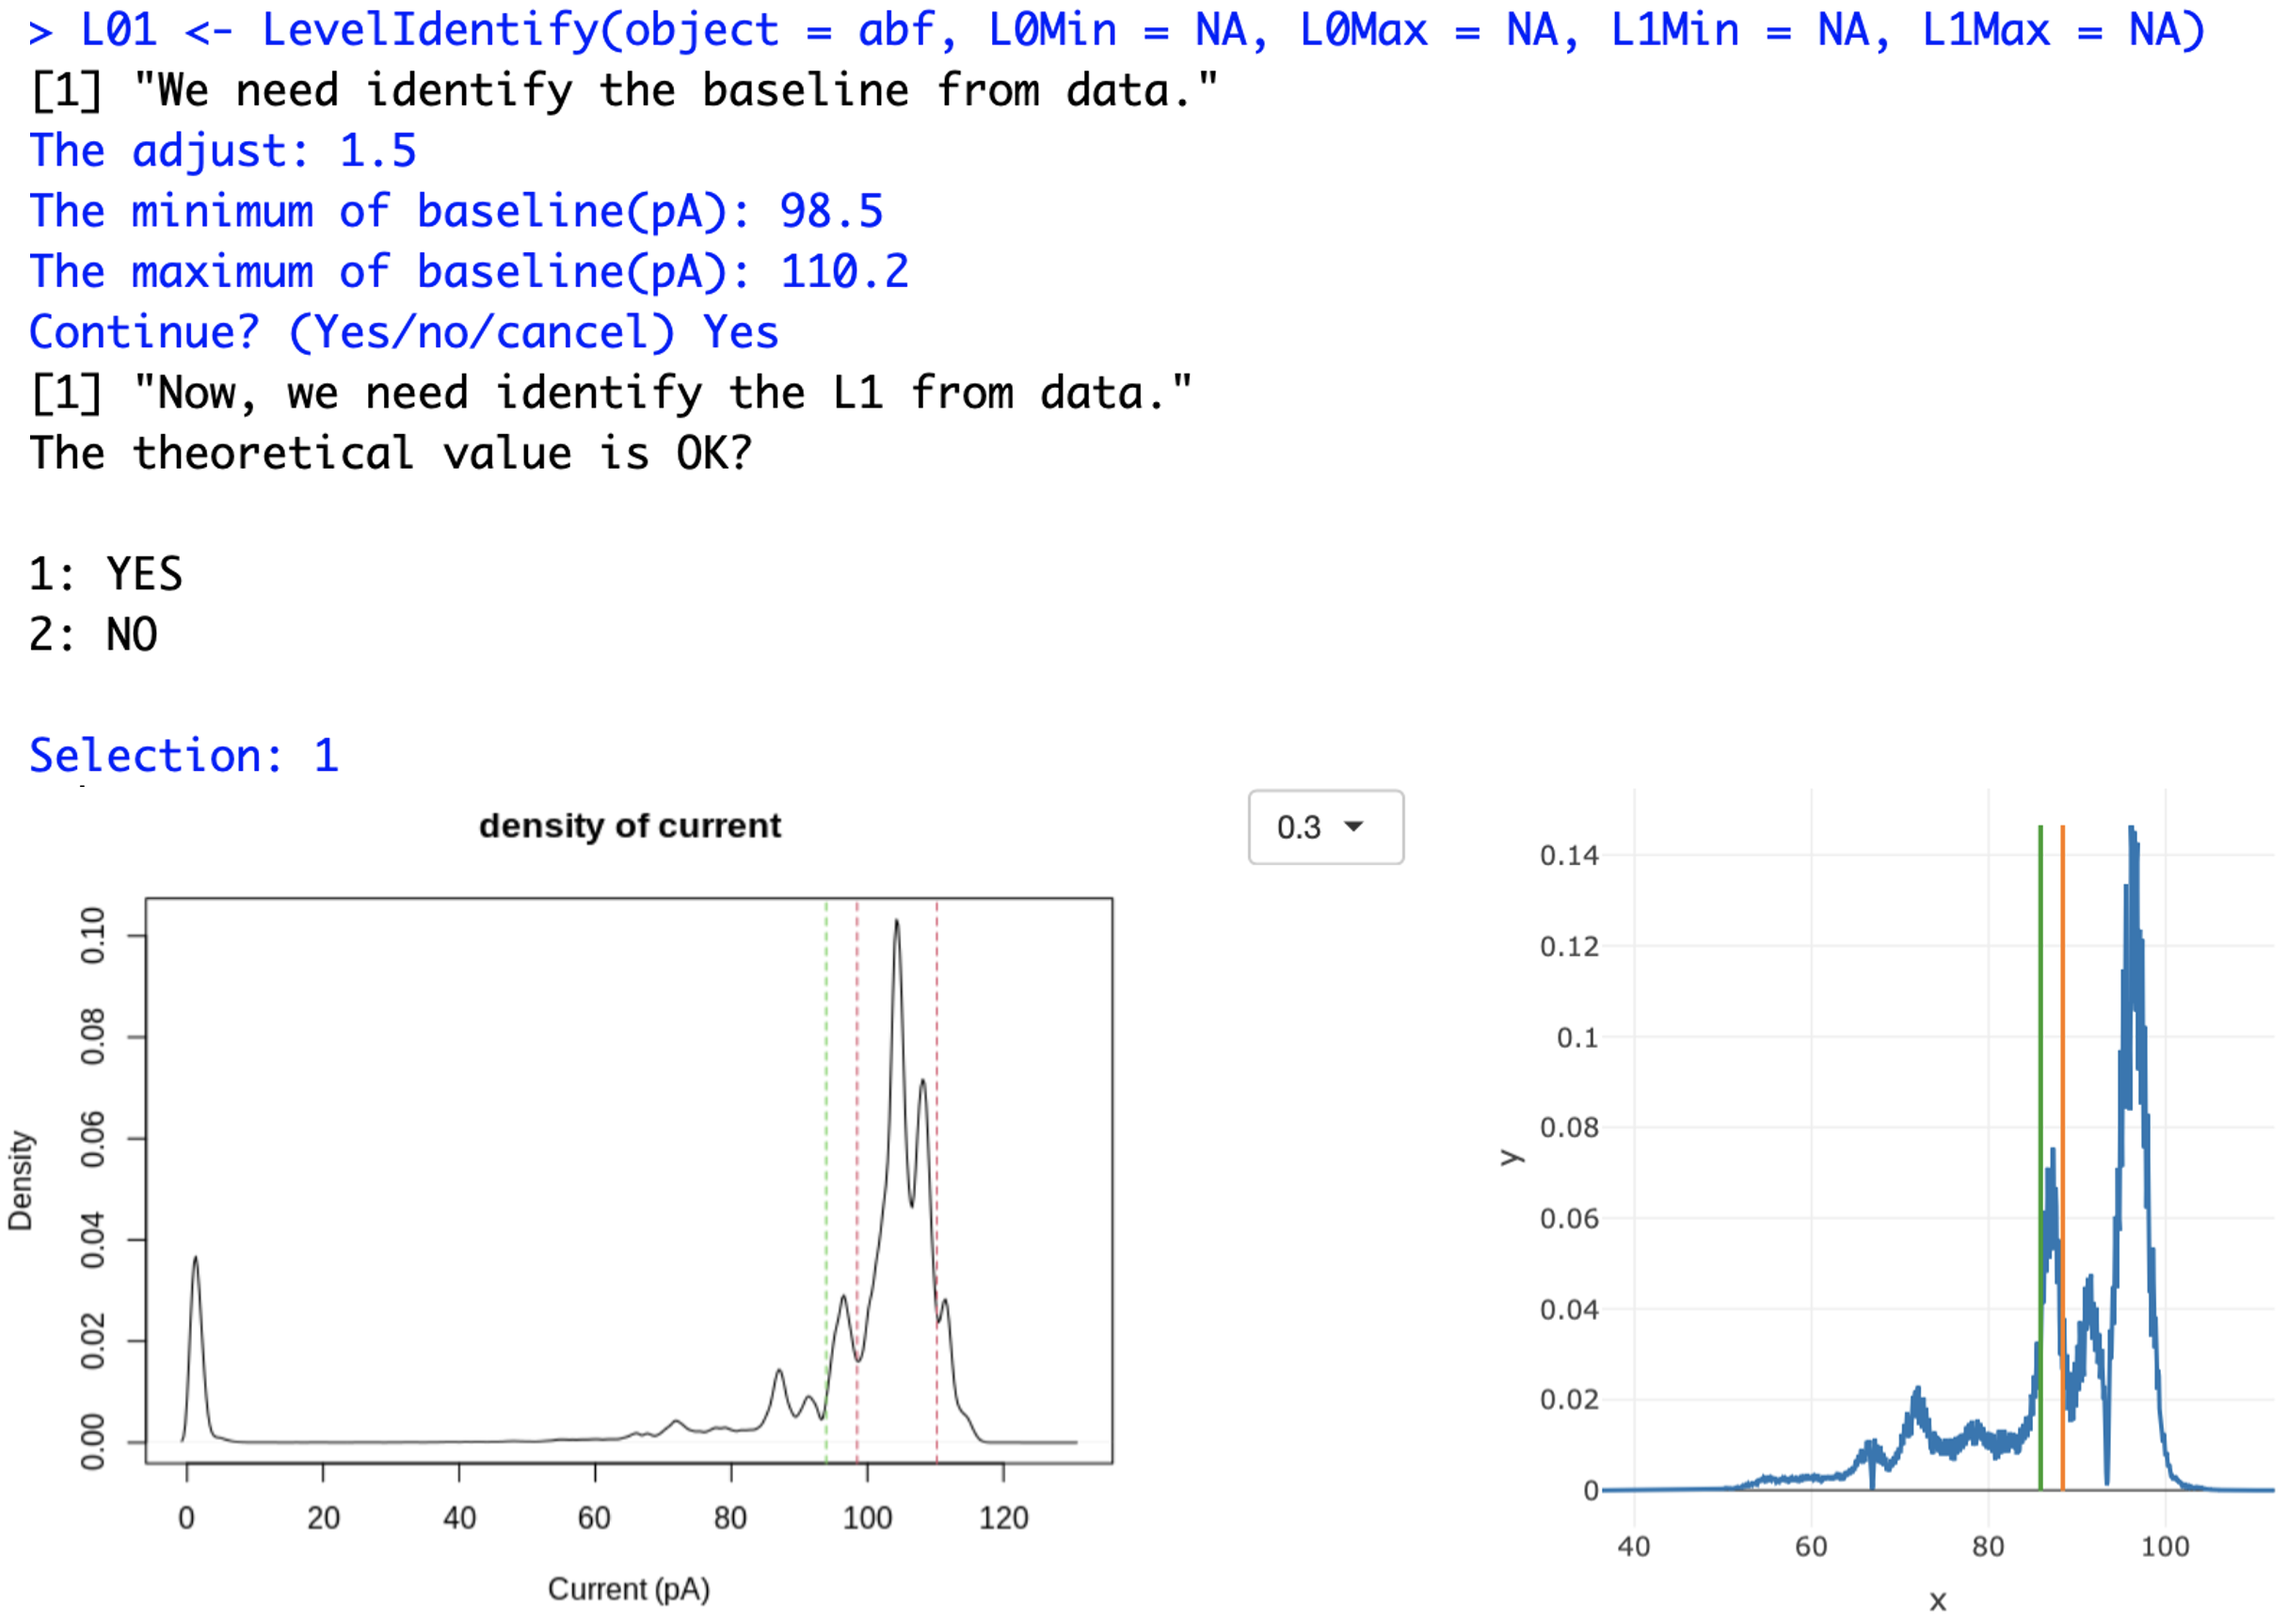
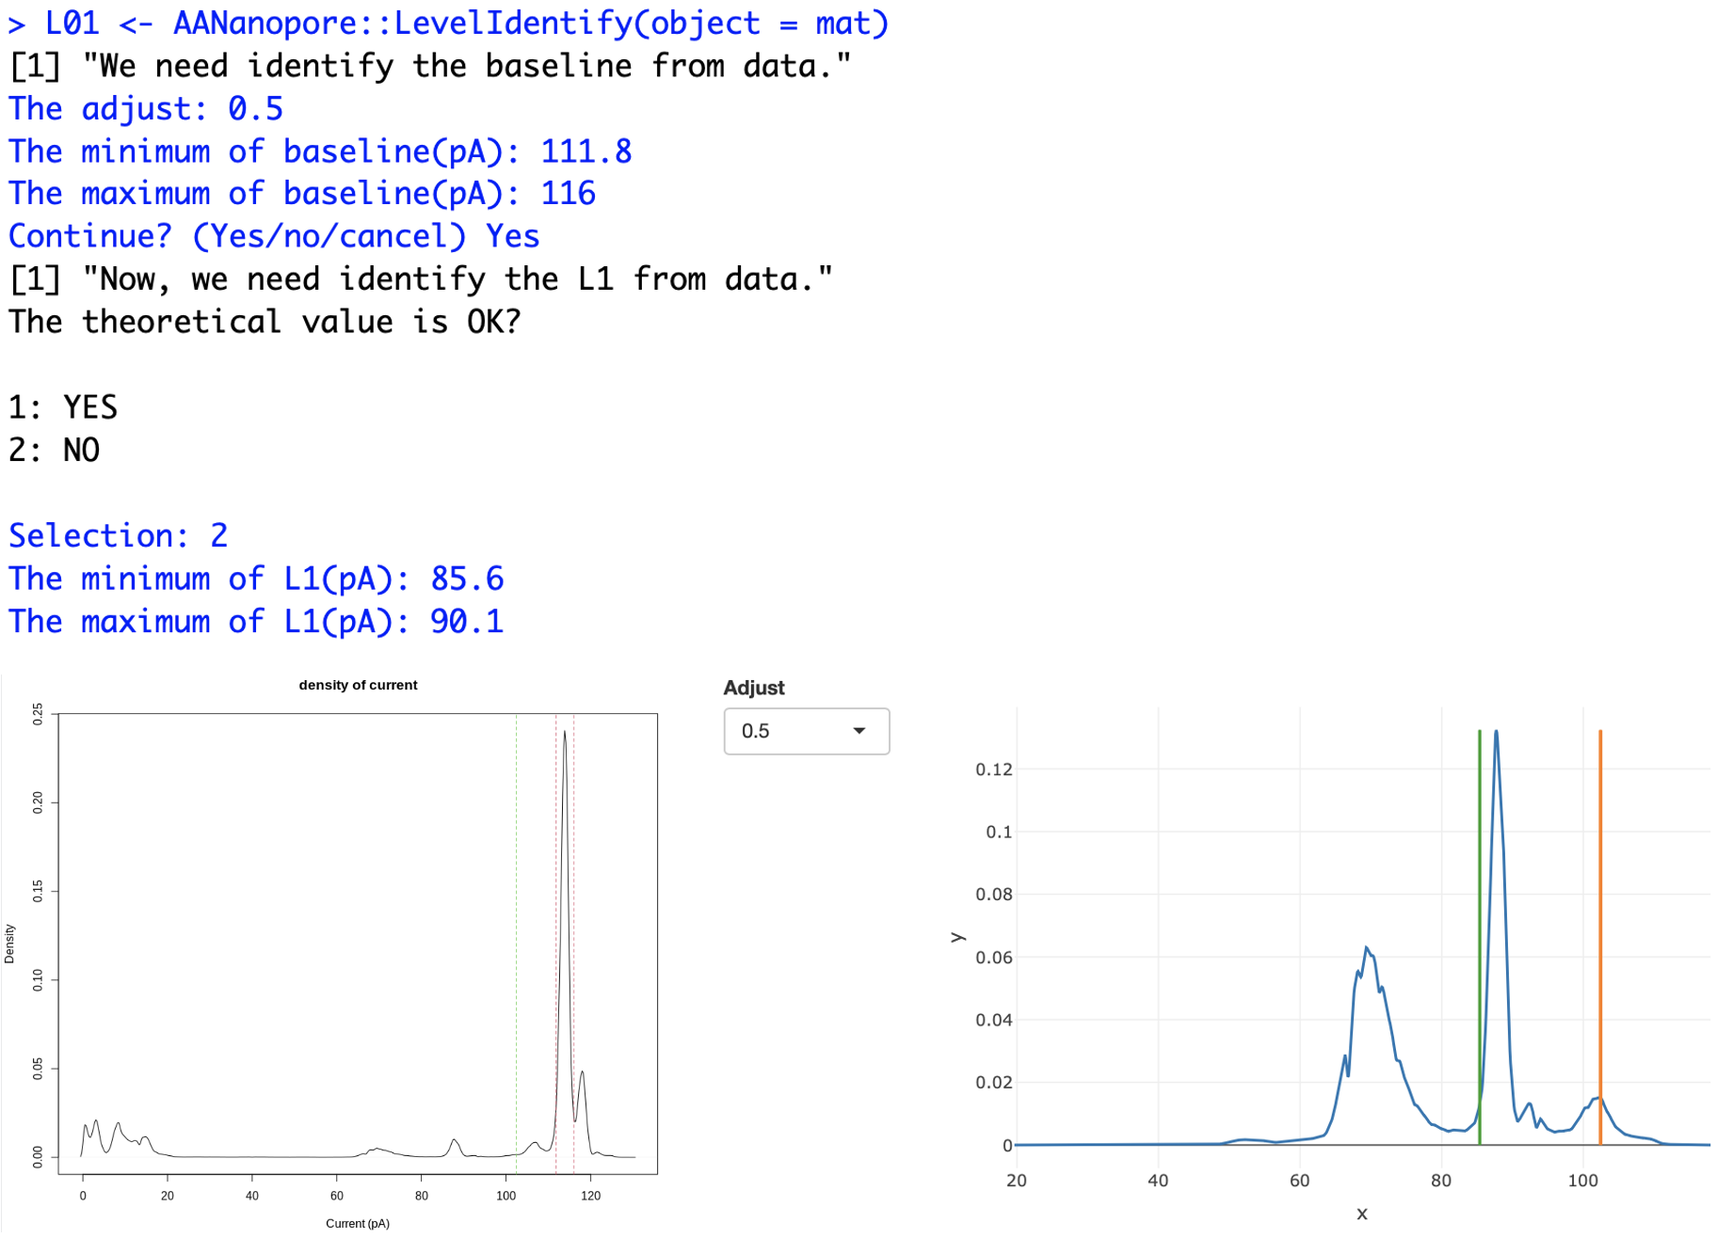
demo

diff --git a/README.md b/README.md
@@ -21,17 +21,22 @@ install_github("LuChenLab/AANanoporeR")
 library(AANanopore)
 ```
 
+### Requirment
+
+If you want to run this R package successfully, you may need a ABF file and a classification model. Because the raw ABF file is too large for GitHub, we uploaded one of raw ABF file `21306010.abf` to [figshare](https://figshare.com/account/home). User can download the  `21306010.abf` file from  [figshare](https://figshare.com/account/home) by  [10.6084/m9.figshare.21385695](https://doi.org/10.6084/m9.figshare.21385695). For this manul, we also uploaded a trained random forest classifier to [figshare](https://figshare.com/account/home). User can also download the  `RF_model.Rds` file from  [figshare](https://figshare.com/account/home) by  [10.6084/m9.figshare.21385722](https://doi.org/10.6084/m9.figshare.21385722).
+
 ### Examples
 
 ##### Step1: Read and polish the raw current signal
 
-Because the raw ABF file is too large for GitHub, we uploaded one of raw ABF file `21328004.abf` to [figshare](https://figshare.com/account/home). User can download the  `21328004.abf` file from  [figshare](https://figshare.com/account/home) by [10.6084/m9.figshare.21385062](https://doi.org/10.6084/m9.figshare.21385062).
-
 First, we need to read and polish the raw current signal from the ABF file using `CurrentPolish` function:
 
 ```R
+library(AANanopore)
+library(data.table)
+library(ggplot2)
 File <- file.path("/File/Path/To/ABF/File")
-abf <- CurrentPolish(file = File, TimeStart = 0, TimeEnd = 4.75)
+abf <- CurrentPolish(file = File, TimeStart = 0, TimeEnd = 0)
 ```
 
 ##### Step2 (optional): Identify the base line (L0) and blockade signal (L1) of amino acids signals
@@ -42,7 +47,11 @@ If the range of L0 (base line) and L1 (blockade signal) of ABF file is unknown, 
 L01 <- LevelIdentify(object = abf, L0Min = NA, L0Max = NA, L1Min = NA, L1Max = NA)
 ```
 
-##### <img src="./inst/LevelIdentify.png" alt="image-20221023170055013" style="zoom:50%;" />Step3: Extract signal events from original signals
+##### <img src="./inst/LevelIdentify.png" alt="image-20221023170055013" style="zoom:50%;" />
+
+
+
+##### Step3: Extract signal events from original signals
 
 After identify the signal level of ABF file, we can use `SignalExtract` function to extract the signal events:
 
@@ -62,9 +71,9 @@ SigPlot(x = sample(BUBs, 1)[[1]])
 
 Then, we can used function `FeatureExtract` to extract the features of each signal event for machine learning.
 
-```
-Fi <- FeatureExtract(sample(BUBs, 1)[[1]])
-Fi
+```R
+Feats <- lapply(X = BUBs, function(x) FeatureExtract(x))
+Feats[[1]]
 # X001   X002   X003   X004   X005   X006   X007   X008   X009   X010   X011   X012   X013 
 # 0.000  0.000  0.000  0.000  0.000  0.000  0.000  0.000  0.000  0.000  0.000  0.000  0.000 
 # X014   X015   X016   X017   X018   X019   X020   X021   X022   X023   X024   X025   X026 
@@ -82,47 +91,109 @@ Fi
 # X092   X093   X094   X095   X096   X097   X098   X099   X100   X101   X102   X103   X104 
 # 0.000  0.000  0.000  0.000  0.000  0.000  0.000  0.000  0.000  0.000  0.000  0.000  0.000 
 # X105   X106   X107   X108   X109   X110   X111   X112   X113   X114   X115   X116   X117 
-# 0.000  0.000  0.000  0.000  0.000  0.000  0.000  0.000  0.000  0.000  0.000  0.000  0.000 
+# 0.000  0.000  0.000  0.000  0.000  0.004  0.027  0.126  0.391  0.903  1.631  2.552  3.795 
 # X118   X119   X120   X121   X122   X123   X124   X125   X126   X127   X128   X129   X130 
-# 0.000  0.000  0.000  0.000  0.000  0.000  0.000  0.000  0.000  0.000  0.000  0.000  0.000 
+# 5.592  8.136 10.919 12.971 14.019 14.458 14.278 13.147 11.238  9.360  7.914  6.689  5.488 
 # X131   X132   X133   X134   X135   X136   X137   X138   X139   X140   X141   X142   X143 
-# 0.000  0.000  0.000  0.000  0.000  0.000  0.000  0.000  0.000  0.000  0.000  0.000  0.000 
+# 4.428  3.657  3.126  2.664  2.203  1.767  1.398  1.085  0.794  0.536  0.352  0.260  0.229 
 # X144   X145   X146   X147   X148   X149   X150   X151   X152   X153   X154   X155   X156 
-# 0.000  0.000  0.000  0.000  0.000  0.000  0.000  0.000  0.000  0.000  0.000  0.000  0.000 
+# 0.228  0.252  0.324  0.444  0.569  0.691  0.916  1.445  2.448  3.871  5.230  5.694  4.759 
 # X157   X158   X159   X160   X161   X162   X163   X164   X165   X166   X167   X168   X169 
-# 0.000  0.000  0.000  0.000  0.029  0.845  1.712  3.048 10.348 23.057 43.546 52.239 30.192 
+# 3.063  1.553  0.655  0.248  0.116  0.086  0.079  0.063  0.049  0.046  0.045  0.042  0.040 
 # X170   X171   X172   X173   X174   X175   X176   X177   X178   X179   X180   X181   X182 
-# 11.681  4.548  2.048  1.694  1.479  1.264  0.933  1.996  0.710  0.334  2.114  0.400  0.786 
+# 0.038  0.031  0.019  0.008  0.002  0.000  0.000  0.000  0.000  0.000  0.000  0.000  0.000 
 # X183   X184   X185   X186   X187   X188   X189   X190   X191   X192   X193   X194   X195 
-# 1.135  1.495  1.396  0.059  0.000  0.000  0.000  0.000  0.000  0.000  0.000  0.000  0.000 
+# 0.000  0.000  0.000  0.000  0.000  0.000  0.000  0.000  0.000  0.000  0.000  0.000  0.000 
 # X196   X197   X198   X199   X200 
 # 0.000  0.000  0.000  0.000  0.000 
 # attr(,"AllTime")
-# [1] 2.02
+# [1] 27.07
 # attr(,"DwellTime")
-# [1] 2.02
+# [1] 17.66
 # attr(,"SignalSD")
-# [1] 0.005176076
+# [1] 0.04052126
 # attr(,"Blockade")
-# [1] 0.1619634
+# [1] 0.378391
 ```
 
 ##### Step5: Predict amino acid
 
 The signal event features of known amino acids can be used to train classifier or used to predict the amino acid type of new signal event. Here, we used our pre-trained random forest classifier to predict the `Fi`.
 
-```
+```R
 # Load the pre-trained random forest classifier 
-data("SmallRF")
+model <- readRDS("/Path/to/RF_model.Rds")
 model
-Predict(x = Fi, model = SmallRF)
-#     A   R     N   D   Q   E   G   H   I   L     K   M   F   S     T   W   Y   V
-# x   0   0 0.662   0   0   0   0   0   0   0 0.004   0   0   0 0.334   0   0   0
-# attr(,"class")
-# [1] "matrix" "array"  "votes" 
+# Random Forest 
+# 
+# 81220 samples
+# 204 predictor
+# 20 classes: 'A', 'C', 'D', 'E', 'F', 'G', 'H', 'I', 'K', 'L', 'M', 'N', 'P', 'Q', 'R', 'S', 'T', 'V', 'W', 'Y' 
+# 
+# Pre-processing: centered (54), scaled (54), Yeo-Johnson transformation (54), remove (150) 
+# Resampling: Cross-Validated (10 fold, repeated 10 times) 
+# Summary of sample sizes: 73099, 73100, 73098, 73099, 73098, 73099, ... 
+# Resampling results:
+#   
+#   Accuracy   Kappa    
+# 0.8923492  0.8866833
+# 
+# Tuning parameter 'mtry' was held constant at a value of 60
+
+Preds <- lapply(Feats, function(x) AANanopore::Predict(x = x, model = model))
+Preds <- as.data.table(do.call(rbind, Preds))
+Preds[1, ]
+#    A     C D E F G H I     K L M N P     Q R S T V    W Y
+# 1: 0 0.024 0 0 0 0 0 0 0.002 0 0 0 0 0.004 0 0 0 0 0.97 0
 ```
 
-The result indicating that according our random forest classifier this signal event is N, and the probability is 0.662. 
+The result indicating that according our random forest classifier this signal event is W, and the probability is 0.97. 
+
+```R
+ggplot(melt.data.table(Preds), aes(x = variable, y = value)) + 
+  geom_boxplot(outlier.color = NA) + 
+  labs(x = "Amino acid", y = "Prediction probability") + 
+  theme_bw(base_size = 15)
+```
+
+<img src="./inst/PredProb.png" alt="image-20221024113227735" style="zoom:50%;" />
+
+```R
+Ans <- data.table(Prob = apply(Preds, 1, max), AA = colnames(Preds)[apply(Preds, 1, which.max)])
+Ans[, .N, AA][order(N, decreasing = T)]
+#     AA   N
+# 1:   W 870
+# 2:   C 201
+# 3:   F  79
+# 4:   G  37
+# 5:   Y  23
+# 6:   D  16
+# 7:   Q  12
+# 8:   I  11
+# 9:   R  10
+# 10:  E  10
+# 11:  V   9
+# 12:  N   9
+# 13:  S   9
+# 14:  H   8
+# 15:  P   7
+# 16:  A   6
+# 17:  L   6
+# 18:  K   5
+# 19:  M   3
+Ans[Prob > 0.7, .N, AA][order(N, decreasing = T)]
+#    AA   N
+# 1:  W 709
+# 2:  C  24
+# 3:  F   6
+# 4:  E   1
+# 5:  I   1
+# 6:  Y   1
+# 7:  G   1
+# 8:  H   1
+```
+
+This results indicating that most of signal event are predicted as W.
 
 ##### Supplementary
 
@@ -152,7 +223,7 @@ model <- train(Class ~ .,
 
 
 
-```
+```R
 sessionInfo()
 # R version 4.0.2 (2020-06-22)
 # Platform: x86_64-pc-linux-gnu (64-bit)
@@ -163,35 +234,41 @@ sessionInfo()
 # LAPACK: /usr/lib/x86_64-linux-gnu/libopenblasp-r0.2.20.so
 # 
 # locale:
-#   [1] LC_CTYPE=en_US.UTF-8       LC_NUMERIC=C
-# [3] LC_TIME=zh_CN.UTF-8        LC_COLLATE=en_US.UTF-8
-# [5] LC_MONETARY=zh_CN.UTF-8    LC_MESSAGES=en_US.UTF-8
-# [7] LC_PAPER=zh_CN.UTF-8       LC_NAME=C
-# [9] LC_ADDRESS=C               LC_TELEPHONE=C
-# [11] LC_MEASUREMENT=zh_CN.UTF-8 LC_IDENTIFICATION=C
+#   [1] LC_CTYPE=en_US.UTF-8       LC_NUMERIC=C               LC_TIME=en_US.UTF-8       
+# [4] LC_COLLATE=en_US.UTF-8     LC_MONETARY=en_US.UTF-8    LC_MESSAGES=en_US.UTF-8   
+# [7] LC_PAPER=en_US.UTF-8       LC_NAME=C                  LC_ADDRESS=C              
+# [10] LC_TELEPHONE=C             LC_MEASUREMENT=en_US.UTF-8 LC_IDENTIFICATION=C       
 # 
 # attached base packages:
-#   [1] stats     graphics  grDevices utils     datasets  methods   base
+#   [1] stats     graphics  grDevices utils     datasets  methods   base     
 # 
 # other attached packages:
-#   [1] AANanopore_0.1.0
+#   [1] ggplot2_3.3.2     data.table_1.13.0 AANanopore_0.1.0 
 # 
 # loaded via a namespace (and not attached):
-#   [1] plotly_4.9.2.1      magrittr_1.5        BiocGenerics_0.34.0
-# [4] IRanges_2.22.2      tidyselect_1.1.0    munsell_0.5.0
-# [7] lattice_0.20-41     viridisLite_0.3.0   colorspace_1.4-1
-# [10] readABF_1.0.2       R6_2.4.1            rlang_0.4.7
-# [13] httr_1.4.2          dplyr_1.0.1         tools_4.0.2
-# [16] parallel_4.0.2      grid_4.0.2          data.table_1.13.0
-# [19] gtable_0.3.0        htmltools_0.5.0     ellipsis_0.3.1
-# [22] lazyeval_0.2.2      digest_0.6.25       tibble_3.0.3
-# [25] lifecycle_0.2.0     crayon_1.3.4        tidyr_1.1.1
-# [28] purrr_0.3.4         ggplot2_3.3.2       htmlwidgets_1.5.1
-# [31] vctrs_0.3.2         S4Vectors_0.26.1    testthat_2.3.2
-# [34] changepoint_2.2.2   glue_1.4.1          compiler_4.0.2
-# [37] pillar_1.4.6        generics_0.0.2      scales_1.1.1
-# [40] stats4_4.0.2        jsonlite_1.7.1      zoo_1.8-8
-# [43] pkgconfig_2.0.3
+#   [1] httr_1.4.2           tidyr_1.1.1          splines_4.0.2        jsonlite_1.7.1      
+# [5] viridisLite_0.3.0    foreach_1.5.0        prodlim_2019.11.13   shiny_1.5.0         
+# [9] stats4_4.0.2         yaml_2.2.1           ipred_0.9-9          pillar_1.4.6        
+# [13] lattice_0.20-41      glue_1.4.1           pROC_1.16.2          digest_0.6.25       
+# [17] XVector_0.28.0       RColorBrewer_1.1-2   promises_1.1.1       randomForest_4.6-14 
+# [21] colorspace_1.4-1     recipes_0.1.13       cowplot_1.0.0        htmltools_0.5.0     
+# [25] httpuv_1.5.4         Matrix_1.5-1         plyr_1.8.6           timeDate_3043.102   
+# [29] pkgconfig_2.0.3      caret_6.0-86         zlibbioc_1.34.0      purrr_0.3.4         
+# [33] xtable_1.8-4         scales_1.1.1         openxlsx_4.1.5       later_1.1.0.1       
+# [37] gower_0.2.2          lava_1.6.7           readABF_1.0.2        tibble_3.0.3        
+# [41] generics_0.0.2       farver_2.0.3         IRanges_2.22.2       ellipsis_0.3.1      
+# [45] withr_2.2.0          nnet_7.3-14          BiocGenerics_0.34.0  lazyeval_0.2.2      
+# [49] survival_3.2-3       magrittr_1.5         crayon_1.3.4         mime_0.9            
+# [53] MASS_7.3-51.6        nlme_3.1-148         changepoint_2.2.2    class_7.3-17        
+# [57] tools_4.0.2          lifecycle_0.2.0      stringr_1.4.0        plotly_4.9.2.1      
+# [61] S4Vectors_0.26.1     munsell_0.5.0        zip_2.0.4            Biostrings_2.56.0   
+# [65] compiler_4.0.2       tinytex_0.25         rlang_0.4.7          grid_4.0.2          
+# [69] iterators_1.0.12     rstudioapi_0.11      htmlwidgets_1.5.1    crosstalk_1.1.0.1   
+# [73] labeling_0.3         testthat_2.3.2       ModelMetrics_1.2.2.2 gtable_0.3.0        
+# [77] codetools_0.2-16     reshape2_1.4.4       R6_2.4.1             lubridate_1.7.9     
+# [81] zoo_1.8-8            dplyr_1.0.1          fastmap_1.0.1        stringi_1.4.6       
+# [85] parallel_4.0.2       Rcpp_1.0.7           rpart_4.1-15         vctrs_0.3.2         
+# [89] tidyselect_1.1.0     xfun_0.16
 ```
 
 
